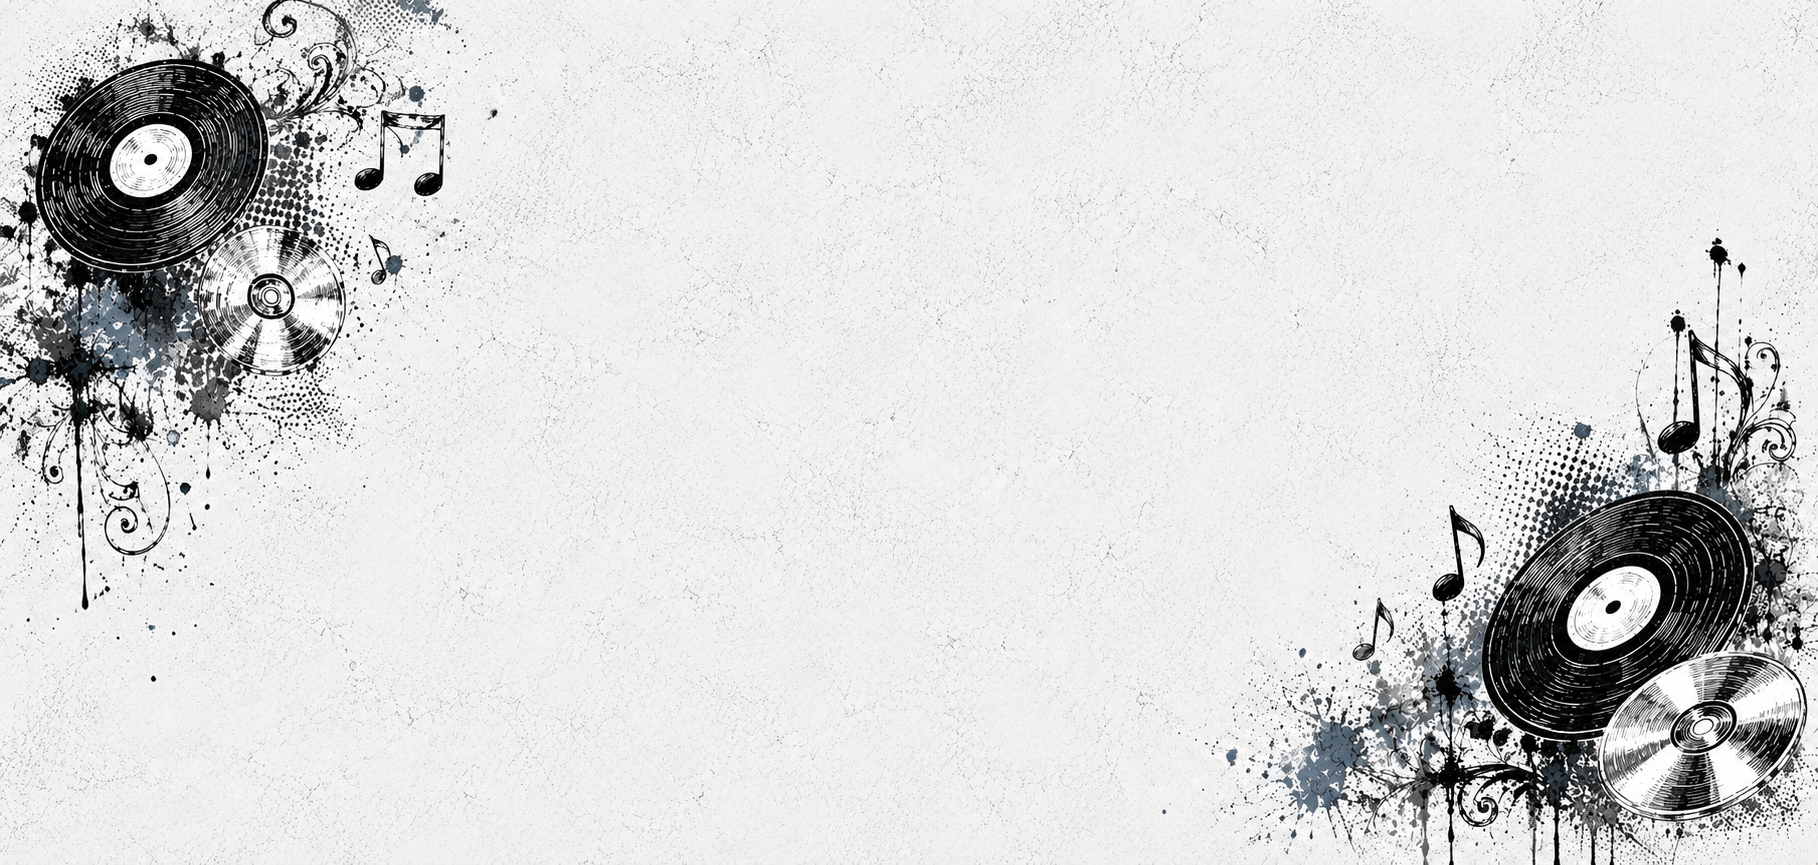
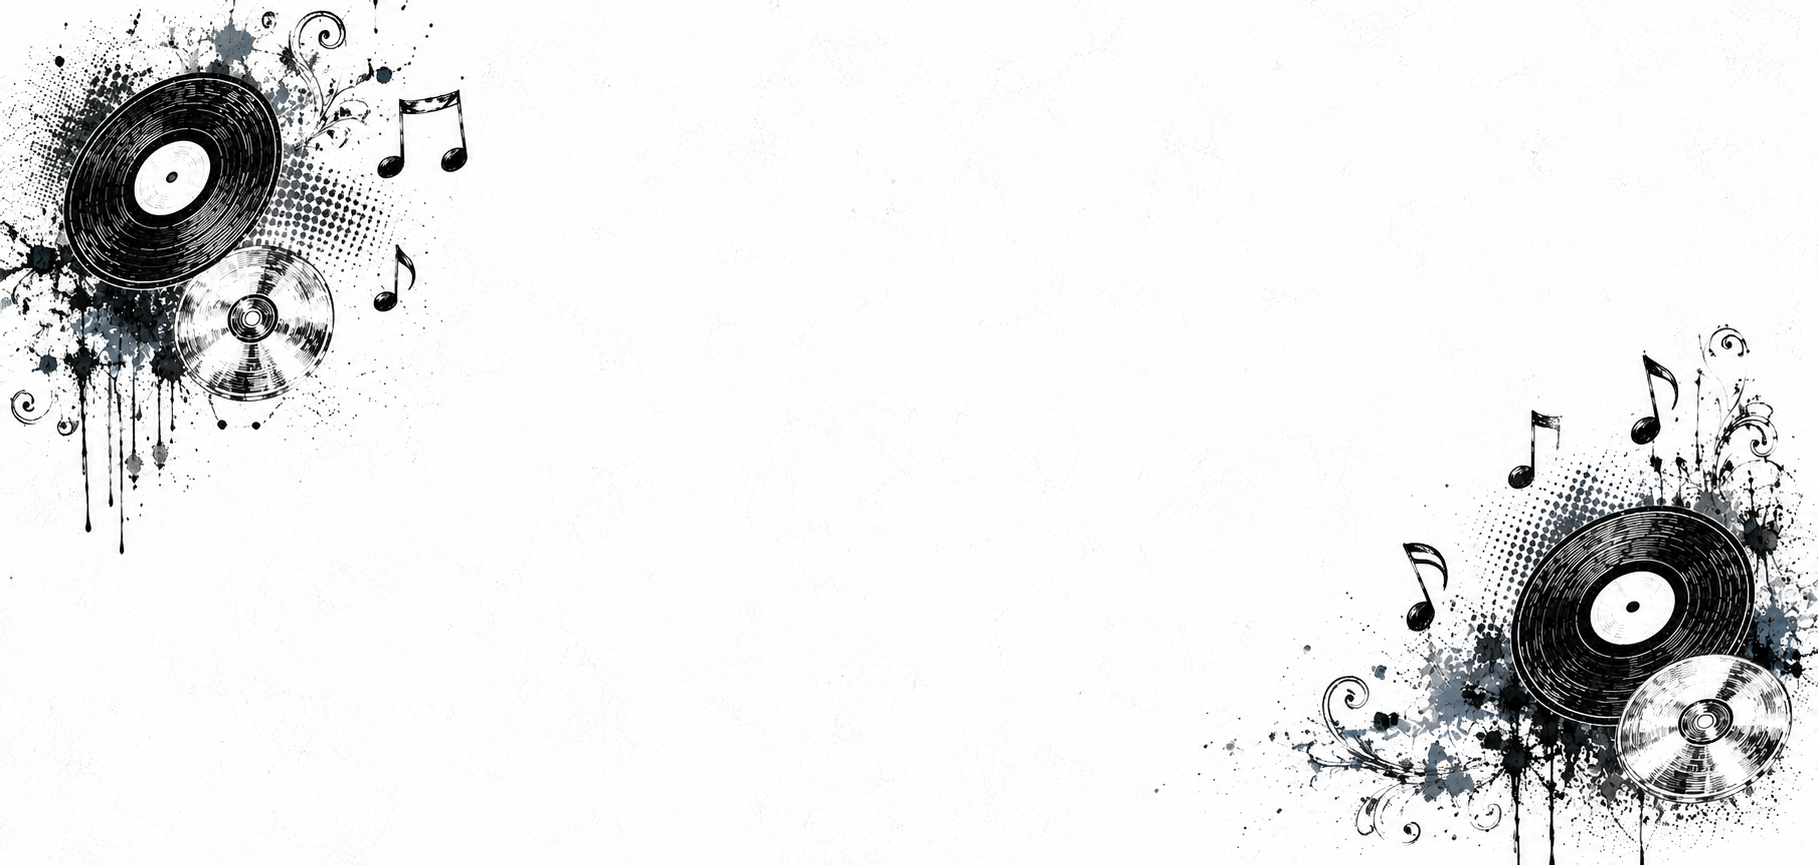
Drop Apple sign-in, keep Google-only OAuth; refresh wheels background
Apple required a paid developer account and extra setup Miguel didn't
want to pursue right now, so the button/provider wiring is removed
(Google sign-in stays, already tested working end-to-end).

Also restores my-wheels-background.webp, which was missing from the
working tree while still referenced by app/wheels/page.tsx.

diff --git a/app/auth/page.tsx b/app/auth/page.tsx
@@ -187,8 +187,7 @@ function AuthPageInner() {
             </button>
             <Divider text="or" />
             <div style={{ display: "flex", flexDirection: "column", gap: 8 }}>
-              <SocialBtn icon={<GoogleIcon />} label="Continue with Google" disabled onClick={() => signIn("google", { callbackUrl })} />
-              <SocialBtn icon={<AppleIcon />} label="Continue with Apple" disabled />
+              <SocialBtn icon={<GoogleIcon />} label="Continue with Google" onClick={() => signIn("google", { callbackUrl })} />
             </div>
           </div>
         ) : (
@@ -250,15 +249,11 @@ function AuthPageInner() {
             </button>
             <Divider text="or" />
             <div style={{ display: "flex", flexDirection: "column", gap: 8 }}>
-              <SocialBtn icon={<GoogleIcon />} label="Continue with Google" disabled onClick={() => signIn("google", { callbackUrl })} />
-              <SocialBtn icon={<AppleIcon />} label="Continue with Apple" disabled />
+              <SocialBtn icon={<GoogleIcon />} label="Continue with Google" onClick={() => signIn("google", { callbackUrl })} />
             </div>
           </div>
         )}
       </div>
-      <p style={{ color: "var(--text-faint)", fontSize: 10, marginTop: 28, letterSpacing: "0.15em", fontFamily: "'Cormorant Garamond', serif" }}>
-        Google & Apple sign-in available at full launch
-      </p>
       </div>
     </>
   );
@@ -271,14 +266,6 @@ function GoogleIcon() {
       <path d="M12 23c2.97 0 5.46-.98 7.28-2.66l-3.57-2.77c-.98.66-2.23 1.06-3.71 1.06-2.86 0-5.29-1.93-6.16-4.53H2.18v2.84C3.99 20.53 7.7 23 12 23z" fill="rgba(242,236,227,0.3)" />
       <path d="M5.84 14.09c-.22-.66-.35-1.36-.35-2.09s.13-1.43.35-2.09V7.07H2.18C1.43 8.55 1 10.22 1 12s.43 3.45 1.18 4.93l2.85-2.22.81-.62z" fill="rgba(242,236,227,0.25)" />
       <path d="M12 5.38c1.62 0 3.06.56 4.21 1.64l3.15-3.15C17.45 2.09 14.97 1 12 1 7.7 1 3.99 3.47 2.18 7.07l3.66 2.84c.87-2.6 3.3-4.53 6.16-4.53z" fill="rgba(242,236,227,0.3)" />
-    </svg>
-  );
-}
-
-function AppleIcon() {
-  return (
-    <svg width="16" height="16" viewBox="0 0 24 24" fill="rgba(242,236,227,0.35)">
-      <path d="M18.71 19.5c-.83 1.24-1.71 2.45-3.05 2.47-1.34.03-1.77-.79-3.29-.79-1.53 0-2 .77-3.27.82-1.31.05-2.3-1.32-3.14-2.53C4.25 17 2.94 12.45 4.7 9.39c.87-1.52 2.43-2.48 4.12-2.51 1.28-.02 2.5.87 3.29.87.78 0 2.26-1.07 3.8-.91.65.03 2.47.26 3.64 1.98-.09.06-2.17 1.28-2.15 3.81.03 3.02 2.65 4.03 2.68 4.04-.03.07-.42 1.44-1.38 2.83M13 3.5c.73-.83 1.94-1.46 2.94-1.5.13 1.17-.34 2.35-1.04 3.19-.69.85-1.83 1.51-2.95 1.42-.15-1.15.41-2.35 1.05-3.11z" />
     </svg>
   );
 }

diff --git a/lib/auth.ts b/lib/auth.ts
@@ -2,11 +2,40 @@ import NextAuth from "next-auth";
 import Credentials from "next-auth/providers/credentials";
 import Google from "next-auth/providers/google";
 import { PrismaAdapter } from "@auth/prisma-adapter";
+import type { Adapter } from "next-auth/adapters";
 import { prisma } from "./prisma";
 import bcrypt from "bcryptjs";
 
+const USERNAME_RE = /[^a-z0-9_]/g;
+
+// OAuth sign-ups (Google) don't go through /api/register, so nothing
+// sets the required, unique `username` field — the Prisma adapter's default
+// createUser would violate that constraint. Derive one from the email's
+// local part instead, deduping against collisions.
+async function generateUsername(seed: string): Promise<string> {
+  const base = seed.toLowerCase().replace(USERNAME_RE, "").slice(0, 20).padEnd(3, "0") || "user";
+  let candidate = base;
+  let suffix = 0;
+  while (await prisma.user.findUnique({ where: { username: candidate } })) {
+    suffix++;
+    const tail = String(suffix);
+    candidate = `${base.slice(0, 20 - tail.length)}${tail}`;
+  }
+  return candidate;
+}
+
+const baseAdapter = PrismaAdapter(prisma);
+const adapter: Adapter = {
+  ...baseAdapter,
+  async createUser(user) {
+    const seed = user.email?.split("@")[0] ?? user.name ?? "user";
+    const username = await generateUsername(seed);
+    return baseAdapter.createUser!({ ...user, username } as any);
+  },
+};
+
 export const { handlers, auth, signIn, signOut } = NextAuth({
-  adapter: PrismaAdapter(prisma),
+  adapter,
   session: { strategy: "jwt" },
   secret: process.env.AUTH_SECRET,
   pages: { signIn: "/auth" },
